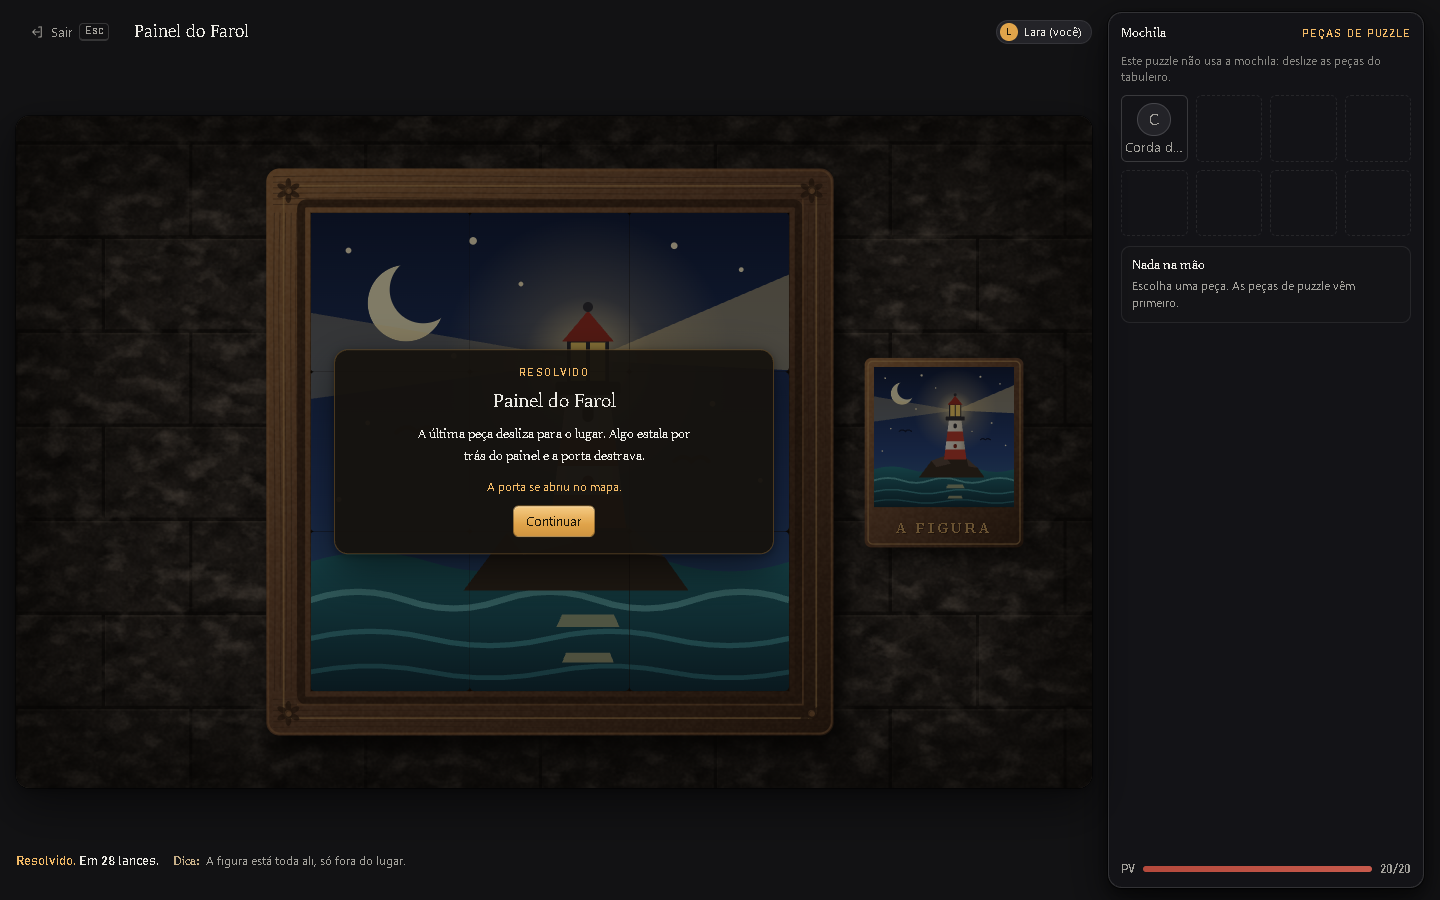
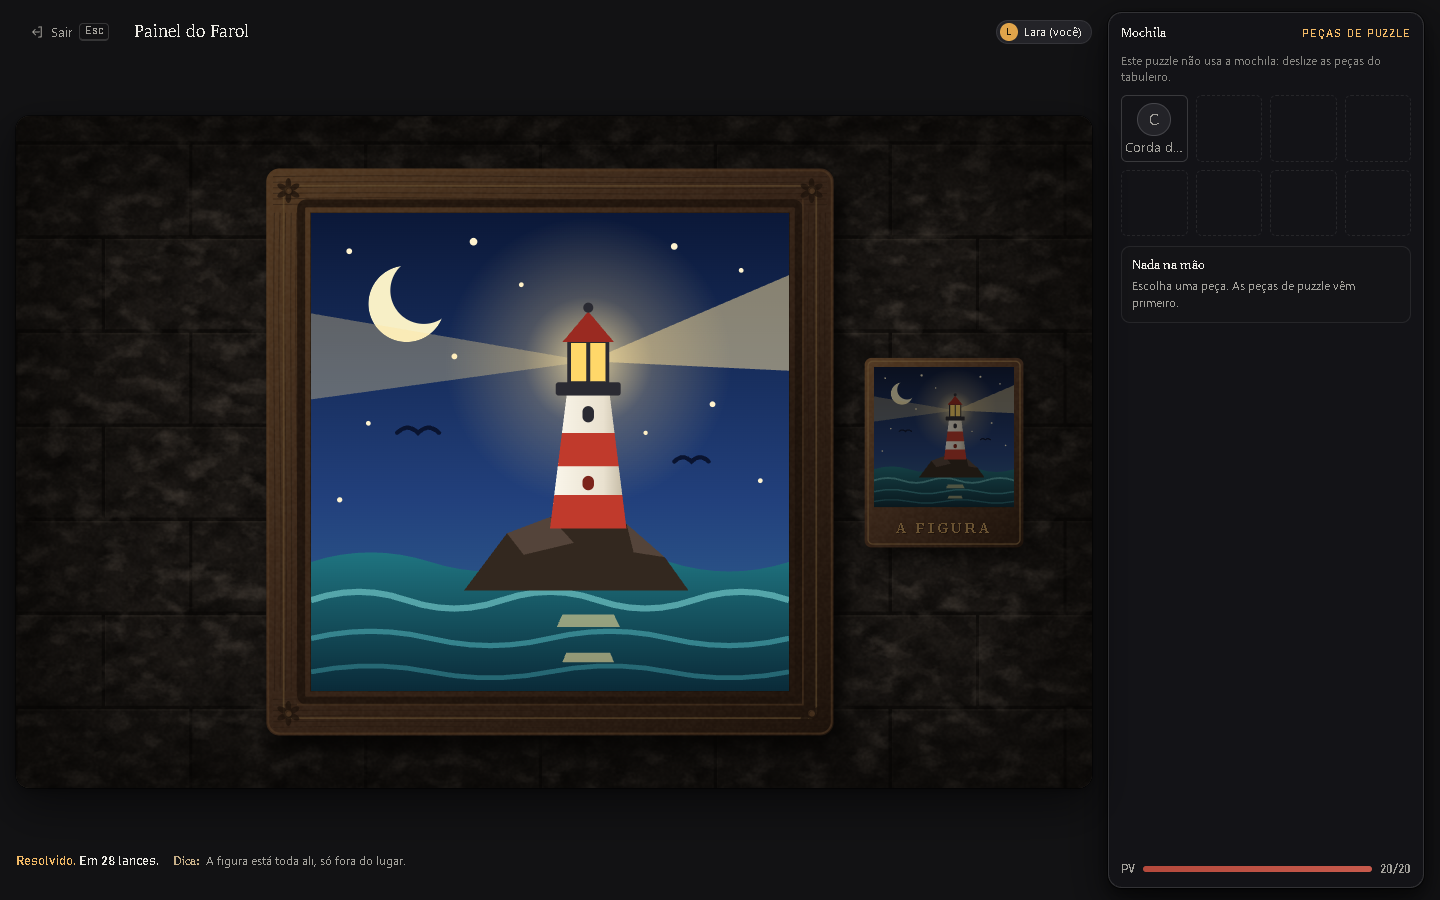
fix(puzzles): brushed bronze, seamless solved figure and font warm-up on the sliding showcase
The 217 ms long task on opening the 4x4 bronze board was not the SVG art: the
Edge trace shows the first text layout loading three system fonts (Segoe UI
Variable 1.8 MB, Bahnschrift, Sitka) in one task. The app shell has them loaded
before a puzzle opens; the player showcase now warms each weight in its own
task. Bronze trades the wavy wood grain for straight brushed hairlines and a
diagonal sheen; the solved figure fades in as one image over the pieces, so no
thin seams remain.

Changed region(s): [[0.2188, 0.2178, 0.5625, 0.7778]]

diff --git a/client/src/puzzles/deslizantes/arte.ts b/client/src/puzzles/deslizantes/arte.ts
@@ -48,7 +48,7 @@ function n(valor: number): string {
   return String(Math.round(valor * 10) / 10)
 }
 
-/** O veio da madeira (ou o batido do bronze): traços finos e ondulados numa faixa. */
+/** O veio da madeira: traços finos e ondulados numa faixa. */
 function veios(x: number, y: number, largura: number, altura: number, deitado: boolean, cor: string, semente: number): string {
   let d = ''
   const linhas = Math.max(3, Math.round((deitado ? altura : largura) / 9))
@@ -64,6 +64,44 @@ function veios(x: number, y: number, largura: number, altura: number, deitado: b
     }
   }
   return `<path d="${d}" fill="none" stroke="${cor}" stroke-width="1.6" opacity=".45"/>`
+}
+
+/** Um número de 0 a 1 que só depende de `i` e da semente (o escovado sai igual em toda pintura). */
+function sorteio(i: number, semente: number): number {
+  const s = Math.sin(i * 12.9898 + semente * 78.233) * 43758.5453
+  return s - Math.floor(s)
+}
+
+/**
+ * O escovado do bronze (28/11, no lugar do veio ondulado, que lia como
+ * madeira): riscos retos e finos, colados um no outro, ao longo da faixa, cada
+ * um de um comprimento e de um brilho. Quatro tons (dois claros, dois escuros)
+ * em quatro caminhos, para o SVG continuar leve.
+ */
+function escovado(x: number, y: number, largura: number, altura: number, deitado: boolean, semente: number): string {
+  const PASSO = 1.9
+  const total = Math.floor((deitado ? altura : largura) / PASSO)
+  const comprimento = deitado ? largura : altura
+  const tons = ['', '', '', '']
+  for (let i = 0; i < total; i++) {
+    const meio = (deitado ? y : x) + (i + 0.5) * PASSO
+    const inicio = sorteio(i, semente) * 0.3 * comprimento
+    const fim = comprimento - sorteio(i + 101, semente) * 0.3 * comprimento
+    const tom = Math.floor(sorteio(i + 211, semente) * 4)
+    tons[tom] += deitado ? `M${n(x + inicio)} ${n(meio)}H${n(x + fim)}` : `M${n(meio)} ${n(y + inicio)}V${n(y + fim)}`
+  }
+  const estilo = [
+    ['#fff4d8', '.07'],
+    ['#fff4d8', '.15'],
+    ['#2a1806', '.09'],
+    ['#2a1806', '.17'],
+  ] as const
+  return tons.map((d, k) => (d === '' ? '' : `<path d="${d}" fill="none" stroke="${estilo[k]?.[0]}" stroke-width=".8" opacity="${estilo[k]?.[1]}"/>`)).join('')
+}
+
+/** A textura da faixa: o veio na madeira, o escovado no bronze. */
+function textura(material: MaterialDasDeslizantes, x: number, y: number, largura: number, altura: number, aoComprido: boolean, p: Paleta, semente: number): string {
+  return material === 'bronze' ? escovado(x, y, largura, altura, aoComprido, semente) : veios(x, y, largura, altura, aoComprido, p.veio, semente)
 }
 
 /** O ornamento de canto: uma rosácea entalhada na madeira, um cravo no bronze. */
@@ -112,7 +150,7 @@ function svgDaBase(material: MaterialDasDeslizantes, lado: number, alvo: number 
   const passo = POCO.lado / lado
   let juntas = ''
   for (let i = 1; i < lado; i++) juntas += `M${n(POCO.x + i * passo)} ${POCO.y}V${POCO.y + POCO.lado}M${POCO.x} ${n(POCO.y + i * passo)}H${POCO.x + POCO.lado}`
-  const deitado = material === 'madeira'
+  const metal = material === 'bronze'
   const plaqueta = comPlaqueta
     ? [
         `<g filter="url(#grt-sombra)" opacity=".8"><rect x="${PLAQUETA.x + 8}" y="${PLAQUETA.y + 12}" width="${PLAQUETA.lado}" height="${PLAQUETA.lado + 46}" rx="10" fill="#000"/></g>`,
@@ -130,14 +168,17 @@ function svgDaBase(material: MaterialDasDeslizantes, lado: number, alvo: number 
     `<linearGradient id="dz-aro" x1="0" y1="0" x2="1" y2="1"><stop offset="0" stop-color="${p.claro}"/><stop offset=".45" stop-color="${p.base}"/><stop offset="1" stop-color="${p.escuro}"/></linearGradient>`,
     `<linearGradient id="dz-poco" x1="0" y1="0" x2="0" y2="1"><stop offset="0" stop-color="#000"/><stop offset=".18" stop-color="${p.fundo}"/><stop offset="1" stop-color="${p.fundo}"/></linearGradient>`,
     `<radialGradient id="dz-cravo" cx=".35" cy=".35" r=".7"><stop offset="0" stop-color="${p.fio}"/><stop offset=".6" stop-color="${p.base}"/><stop offset="1" stop-color="${p.escuro}"/></radialGradient>`,
+    metal ? '<linearGradient id="dz-brilho" x1="0" y1="0" x2="1" y2="1"><stop offset=".18" stop-color="#fff6dc" stop-opacity="0"/><stop offset=".3" stop-color="#fff6dc" stop-opacity=".22"/><stop offset=".38" stop-color="#fff6dc" stop-opacity="0"/><stop offset=".66" stop-color="#fff6dc" stop-opacity="0"/><stop offset=".72" stop-color="#fff6dc" stop-opacity=".1"/><stop offset=".8" stop-color="#fff6dc" stop-opacity="0"/></linearGradient>' : '',
     '</defs>',
     parede(),
     `<g filter="url(#grt-sombra)" opacity=".9"><rect x="${x + 16}" y="${y + 24}" width="${l}" height="${l}" rx="20" fill="#000"/></g>`,
     `<rect x="${x}" y="${y}" width="${l}" height="${l}" rx="20" fill="url(#dz-aro)"/>`,
-    veios(x + 10, y + 8, l - 20, ARO - 16, deitado, p.veio, 1),
-    veios(x + 10, y + l - ARO + 8, l - 20, ARO - 16, deitado, p.veio, 2),
-    veios(x + 8, y + ARO, ARO - 16, l - 2 * ARO, !deitado, p.veio, 3),
-    veios(x + l - ARO + 8, y + ARO, ARO - 16, l - 2 * ARO, !deitado, p.veio, 4),
+    textura(material, x + 10, y + 8, l - 20, ARO - 16, true, p, 1),
+    textura(material, x + 10, y + l - ARO + 8, l - 20, ARO - 16, true, p, 2),
+    textura(material, x + 8, y + ARO, ARO - 16, l - 2 * ARO, false, p, 3),
+    textura(material, x + l - ARO + 8, y + ARO, ARO - 16, l - 2 * ARO, false, p, 4),
+    // O bronze ganha um reflexo largo e frio na diagonal: é o que faz o escovado ler como metal.
+    metal ? `<rect x="${x}" y="${y}" width="${l}" height="${l}" rx="20" fill="url(#dz-brilho)"/>` : '',
     // O chanfro: luz em cima e à esquerda, sombra embaixo e à direita, e o fio embutido no meio do aro.
     `<rect x="${x + 3}" y="${y + 3}" width="${l - 6}" height="${l - 6}" rx="18" fill="none" stroke="${p.claro}" stroke-width="3" opacity=".55"/>`,
     `<rect x="${x + 26}" y="${y + 26}" width="${l - 52}" height="${l - 52}" rx="10" fill="none" stroke="${p.fio}" stroke-width="2.5" opacity=".55"/>`,
@@ -212,9 +253,10 @@ export function urlDoBloco(material: MaterialDasDeslizantes, ehChave: boolean): 
   const url = emUrl(
     [
       `<svg ${SVG} viewBox="0 0 100 100" preserveAspectRatio="none">`,
-      `<defs><linearGradient id="c" x1="0" y1="0" x2="1" y2="1"><stop offset="0" stop-color="${claro}"/><stop offset="1" stop-color="${escuro}"/></linearGradient></defs>`,
+      // No bronze, o campo tem uma faixa de luz no meio do degradê (metal), e não só o claro e o escuro.
+      `<defs><linearGradient id="c" x1="0" y1="0" x2="1" y2="1"><stop offset="0" stop-color="${claro}"/>${material === 'bronze' ? `<stop offset=".42" stop-color="${ehChave ? '#fbe7ae' : '#cfa25a'}"/><stop offset=".56" stop-color="${ehChave ? '#d9ac52' : p.campoClaro}"/>` : ''}<stop offset="1" stop-color="${escuro}"/></linearGradient></defs>`,
       '<rect width="100" height="100" fill="url(#c)"/>',
-      ehChave ? '' : veios(4, 4, 92, 92, material === 'madeira', p.veio, 5),
+      ehChave ? '' : textura(material, 4, 4, 92, 92, true, p, 5),
       motivo,
       '</svg>',
     ].join(''),

diff --git a/client/src/player/puzzle/vitrine/vitrine.tsx b/client/src/player/puzzle/vitrine/vitrine.tsx
@@ -443,16 +443,40 @@ function Fora({ jogo, onExaminar }: { jogo: JogoLocalDoPuzzle; onExaminar: () =>
   )
 }
 
+/**
+ * No app e no site, as três fontes do tema já estão carregadas quando o puzzle
+ * abre (a casca usa todas). A vitrine abre direto no puzzle: sem isto, o 1º
+ * layout carrega as três juntas (Segoe UI Variable, 1,8 MB, Bahnschrift e
+ * Sitka) e vira uma tarefa de ~220 ms que não é da tela (medido em 28/11 pelo
+ * trace do Edge). Cada peso de uma fonte variável é uma carga à parte, então
+ * vai um peso por tarefa, como a casca faz ao abrir.
+ */
+async function aquecerFontes(): Promise<void> {
+  const PESOS = ['400', '500', '600', '700', 'italic 400'] as const
+  for (const familia of ['--lb-font-sans', '--lb-font-utility', '--lb-font-display']) for (const peso of PESOS) {
+    // Primeiro cede: a primeira amostra também sai da tarefa que avalia os módulos.
+    await new Promise((pronto) => setTimeout(pronto, 0))
+    const amostra = document.createElement('span')
+    amostra.textContent = 'Aa Çã 0123'
+    amostra.style.cssText = `position:fixed;left:-9999px;top:0;font:${peso} 14px var(${familia})`
+    document.body.append(amostra)
+    void amostra.offsetWidth
+    amostra.remove()
+  }
+}
+
 const raiz = document.getElementById('raiz')
 if (raiz !== null) {
   // Sem exports, o Fast Refresh recarrega a página inteira em vez de montar uma segunda raiz.
   if (Reflect.get(window, '__vitrinePuzzleMontada') === true) location.reload()
   else {
     Reflect.set(window, '__vitrinePuzzleMontada', true)
-    void exemploPedido().then((exemplo) => {
-      // As provas medem a abertura da tela a partir daqui (o preparo do exemplo não é da tela).
-      performance.mark('vitrine:montar')
-      createRoot(raiz).render(<Vitrine exemplo={exemplo} />)
-    })
+    void aquecerFontes()
+      .then(exemploPedido)
+      .then((exemplo) => {
+        // As provas medem a abertura da tela a partir daqui (o preparo do exemplo não é da tela).
+        performance.mark('vitrine:montar')
+        createRoot(raiz).render(<Vitrine exemplo={exemplo} />)
+      })
   }
 }

diff --git a/client/src/puzzles/deslizantes/deslizantes.css b/client/src/puzzles/deslizantes/deslizantes.css
@@ -202,9 +202,26 @@
     0 0 1.6em rgba(255, 214, 120, 0.8);
 }
 
+/* A figura inteira por cima das peças, só quando fecha (depois de as peças assentarem). */
+.qpz-dz__inteira {
+  position: absolute;
+  inset: 0;
+  z-index: 3;
+  background-position: 50% 50%;
+  background-repeat: no-repeat;
+  opacity: 0;
+  pointer-events: none;
+}
+
+.qpz-dz.is-resolvido[data-modo='figura'] .qpz-dz__inteira {
+  opacity: 1;
+  transition: opacity 360ms ease 520ms;
+}
+
 .qpz-dz.is-resolvido .qpz-dz__poco::after {
   content: '';
   position: absolute;
+  z-index: 4;
   inset: -10%;
   background: linear-gradient(105deg, transparent 38%, rgba(255, 236, 190, 0.38) 50%, transparent 62%);
   transform: translateX(-100%);

diff --git a/client/src/puzzles/deslizantes/TabuleiroDeslizante.tsx b/client/src/puzzles/deslizantes/TabuleiroDeslizante.tsx
@@ -345,6 +345,8 @@ export function PainelDasDeslizantes({ deslizantes, resolvido, onDeslizar, eu, t
             </button>
           )
         })}
+        {/* Quando fecha, a figura inteira (uma imagem só) cobre as peças: some a emenda fina entre elas. */}
+        {figura !== null && <span className="qpz-dz__inteira" style={{ backgroundImage: `url("${figura}")`, backgroundSize: `${proporcao.x * 100}% ${proporcao.y * 100}%` }} aria-hidden="true" />}
       </div>
       <span className="qpz-dz__leitor" aria-live="polite">
         {leitor}
